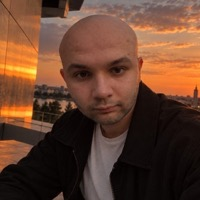
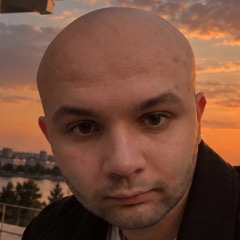
Add files via upload

diff --git a/index.html b/index.html
@@ -53,7 +53,7 @@ h3{font-size:clamp(20px,2vw,26px);line-height:1.12;letter-spacing:-.02em;font-we
 a:hover>.arrow,.hov:hover .arrow{background:var(--lime);border-color:var(--lime);color:var(--on-lime)}
 
 /* header */
-header.nav{background:var(--card);border-radius:999px;padding:8px 8px 8px 22px;display:flex;align-items:center;gap:16px;justify-content:space-between;position:sticky;top:max(8px,env(safe-area-inset-top,0px));z-index:20}
+header.nav{background:var(--card);border-radius:999px;padding:8px;display:flex;align-items:center;gap:16px;justify-content:space-between;position:sticky;top:max(8px,env(safe-area-inset-top,0px));z-index:20}
 .logo span{white-space:nowrap}
 .logo{font-weight:700;letter-spacing:-.02em;display:flex;align-items:center;gap:10px}
 .logo img{width:40px;height:40px;border-radius:50%;object-fit:cover;display:block}
@@ -339,7 +339,7 @@ header.nav{background:var(--card);border-radius:999px;padding:8px 8px 8px 22px;d
   .sec-head{padding:36px 4px 12px}
   .hide-sm{display:none}
   .tile{min-height:130px;gap:18px}
-  header.nav{padding:6px 6px 6px 14px}
+  header.nav{padding:6px}
   .logo{font-size:15px;gap:8px}
   .nav .btn{height:38px;padding:0 16px}
   .trust{padding:20px}
